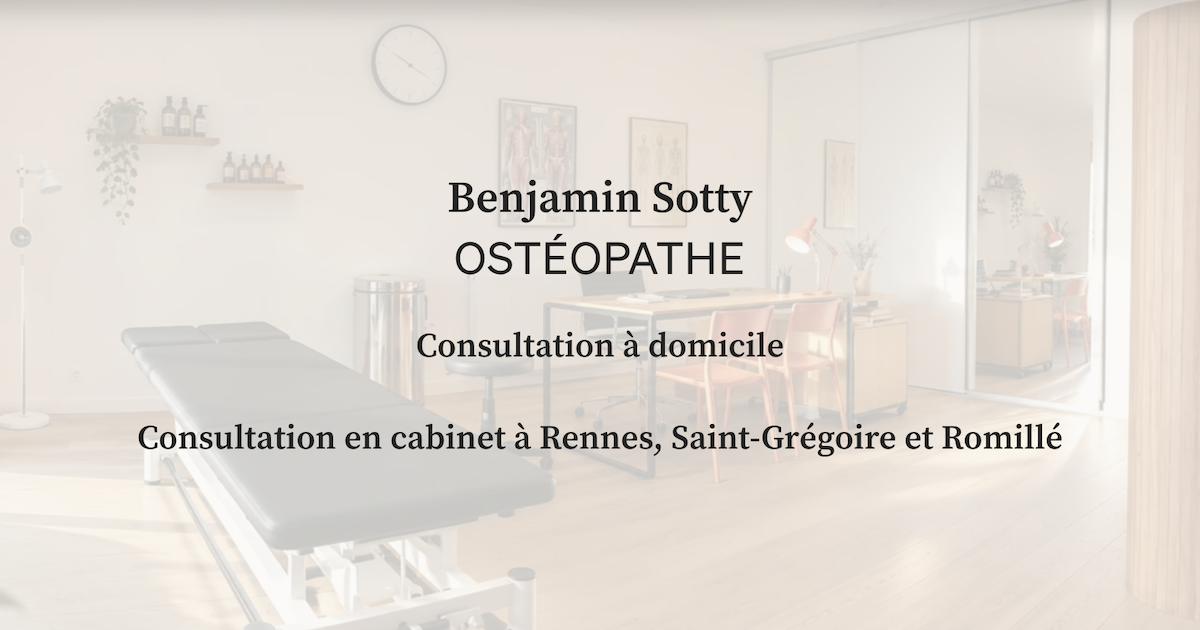
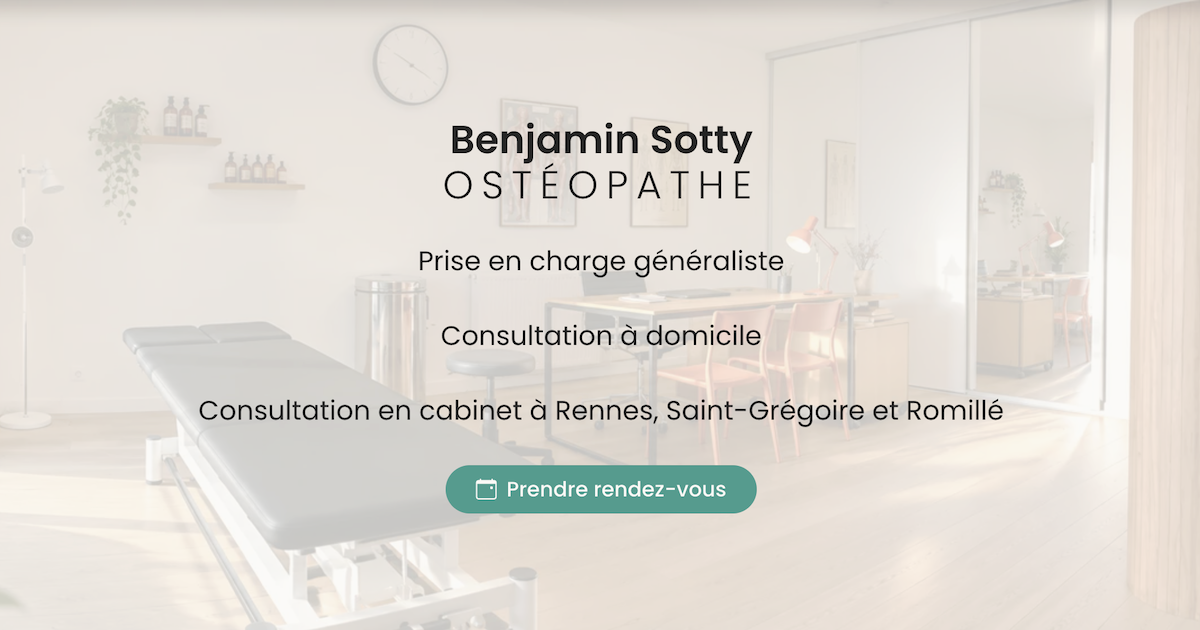
Change site color

Changed region(s): [[0.1233, 0.6333, 0.8942, 0.8143], [0.3392, 0.181, 0.6475, 0.4524], [0.3392, 0.5127, 0.6475, 0.573]]

diff --git a/docs/_includes/footer.html b/docs/_includes/footer.html
@@ -1,32 +1,32 @@
-<footer class="bd-footer py-4 py-md-5 bg-body-secondary">
-  <div class="container-md py-sm-4 py-md-5 px-sm-4 text-primary">
+<footer class="bd-footer py-4 py-md-5 bg-primary">
+  <div class="container-md py-sm-4 py-md-5 px-sm-4 text-white">
     <div class="row align-items-center">
       <div class="col mb-3">
         {% include logo.html %}
         <ul class="list-unstyled small">
           <li class="mb-2">
-            <a class="d-flex flow-row align-items-center gap-2" href="mailto:{{ site.data.me.email }}">
-              <i class="bi bi-envelope-at-fill text-primary fs-4"></i>
+            <a class="link-white d-flex flow-row align-items-center gap-2" href="mailto:{{ site.data.me.email }}">
+              <i class="bi bi-envelope-at-fill text-white fs-4"></i>
               <span>{{ site.data.me.email }}</span>
             </a>
           </li>
           <li class="mb-2 d-flex flow-row align-items-center">
-            <a class="d-flex flow-row align-items-center gap-2" href="tel:+33651385458">
-              <i class="bi bi-phone-fill text-primary fs-4"></i>
+            <a class="link-white d-flex flow-row align-items-center gap-2" href="tel:+33651385458">
+              <i class="bi bi-phone-fill text-white fs-4"></i>
               <span>{{ site.data.me.phone }}</span>
             </a>
           </li>
           <li class="mb-2">
-            <div class= "d-flex flow-row align-items-center gap-3 text-primary">
-              <a href="{{ site.data.me.google }}" target="_blank">
+            <div class= "d-flex flow-row align-items-center gap-3 text-white">
+              <a class="link-white" href="{{ site.data.me.google }}" target="_blank">
                 <i class="bi bi-google fs-4"></i>
               </a>
-              <div class="vr text-primary opacity-100 align-self-center"></div>
-              <a href="{{ site.data.me.linkedin }}" target="_blank">
+              <div class="vr text-white opacity-100 align-self-center"></div>
+              <a class="link-white" href="{{ site.data.me.linkedin }}" target="_blank">
                 <i class="bi bi-linkedin fs-4"></i>
               </a>
-              <div class="vr text-primary opacity-100 align-self-center"></div>
-              <a href="{{ site.data.me.github }}" target="_blank">
+              <div class="vr text-white opacity-100 align-self-center"></div>
+              <a class="link-white" href="{{ site.data.me.github }}" target="_blank">
                 <i class="bi bi-github fs-4"></i>
               </a>
             </div>
@@ -34,7 +34,7 @@
         </ul>
       </div>
       <div class="col mb-3 text-end">
-        {% include booking-button.html class="btn-primary btn-responsive" %}
+        {% include booking-button.html class="btn-white btn-responsive" %}
       </div>
     </div>
   </div>

diff --git a/docs/_includes/head.html b/docs/_includes/head.html
@@ -5,6 +5,7 @@
 {% assign ogImgPath = '/assets/images/benjamin-sotty-activity-summary.png' | absolute_url %}
 {% assign relativeUrl = page.url | replace: 'index.html', '' %}
 {% assign url = [site.url,  relativeUrl] | join: ""  %}
+{% assign favicon = '/assets/images/icons/favicon.png' | absolute_url %}
 
 <head>
   <meta charset="UTF-8" />
@@ -13,7 +14,7 @@
   <title>{{ title }}</title>
   <meta name="description" content="{{ description }}" />
   <link rel="canonical" href="{{ url }}" />
-  <link rel="icon" type="png" href="{{ '/assets/images/icons/care-primary.png' | absolute_url }}" />
+  <link rel="icon" type="png" href="{{ favicon }}" />
 
   <meta property="og:type" content="website" />
   <meta property="og:title" content="{{ title }}" />

diff --git a/docs/assets/scss/utilities/colors.scss b/docs/assets/scss/utilities/colors.scss
@@ -75,3 +75,37 @@ $utilities: map-merge(
   ),
   $utilities
 );
+
+$primaries: (
+  "50": #F0F8F6,
+  "100": #D9EEEA,
+  "200": #B5DED7,
+  "300": #8CCBC1,
+  "400": #61B5A8,
+  "500": #3A9D8F,
+  "600": #31897D,
+  "700": #287268,
+  "800": #205B53,
+  "900": #17443E
+);
+
+$utilities: map-merge(
+  (
+    "bg-primaries": (
+      property: background-color,
+      class: bg-primary,
+      values: $primaries
+    ),
+    "text-primaries": (
+      property: color,
+      class: text-primary,
+      values: $primaries
+    ),
+    "border-primaries": (
+      property: border-color,
+      class: border-primary,
+      values: $primaries
+    )
+  ),
+  $utilities
+);

diff --git a/docs/_includes/home/about-me/section.html b/docs/_includes/home/about-me/section.html
@@ -7,9 +7,11 @@
         alt="{{ include.imgAlt }}"
       />
     {% else %}
-      <div class="round-section-picture d-flex align-items-center justify-content-center rounded-circle border border-3 shadow p-4 bg-body-secondary">
+      <div class="round-section-picture d-flex align-items-center border-solid border-3 border-primary-400 justify-content-center rounded-circle shadow p-4">
         {% if include.icon %}
           <i class="bi {{ include.icon }} text-primary fs-1"></i>
+        {% else if include.iconHtml %}
+            {{ include.iconHtml }}
         {% else %}
           <img
             class="d-inline-block"

diff --git a/docs/assets/scss/variables.scss b/docs/assets/scss/variables.scss
@@ -5,12 +5,19 @@ $font-size-base: 1.06rem;
 $headings-font-weight: 700;
 $h1-font-size: $font-size-base * 2.5;
 
-
 // Colors
-//$primary: #12304A;
-//$primary: #0a58ca; // $blue-600;
-//$primary:#084298; // $blue-700;
-$primary: #052c65; // $blue-800;
+$primary: #3A9D8F;
+$primary-50:  #F0F8F6;
+$primary-100: #D9EEEA;
+$primary-200: #B5DED7;
+$primary-300: #8CCBC1;
+$primary-400: #61B5A8;
+$primary-500: #3A9D8F;
+$primary-600: #31897D;
+$primary-700: #287268;
+$primary-800: #205B53;
+$primary-900: #17443E;
+
 $white: #FAF9F6;
 $dark: #242424;
 $text-light: #6b6b6b;

diff --git a/docs/assets/scss/button.scss b/docs/assets/scss/button.scss
@@ -1,4 +1,24 @@
-.btn-responsive {
-  // .btn-sm
-  @include button-size($btn-padding-y-sm, $btn-padding-x-sm, $btn-font-size-sm, $btn-border-radius-sm);
+.btn {
+  font-weight: 500;
+
+  &.btn-responsive {
+    // .btn-sm
+    @include button-size($btn-padding-y-sm, $btn-padding-x-sm, $btn-font-size-sm, $btn-border-radius-sm);
+  }
+
+  &.btn-primary {
+    color: $white;
+  }
+
+  &.btn-white {
+    background-color: $white;
+    color: $primary;
+
+    &:hover,
+    &:active,
+    &:focus {
+      background-color: $white;
+      color: $primary;
+    }
+  }
 }

diff --git a/docs/_includes/home/booking/card.html b/docs/_includes/home/booking/card.html
@@ -8,7 +8,7 @@
   <div class="card-body d-flex flex-column justify-content-between">
     <div>
       <h5 class="card-title">{{ include.place.name }}</h5>
-      <p class="card-subtitle mb-2 text-medium text-condensed">{{ include.place.context }}</p>
+      <p class="card-subtitle mb-2 text-medium text-condensed text-gray-600">{{ include.place.context }}</p>
     </div>
     <div class="flex-fill d-flex flex-column justify-content-between gap-2">
       <p class="card-text m-0">Adresse&nbsp;: {{ include.place.address }}</p>

diff --git a/docs/_includes/home/about-me/index.html b/docs/_includes/home/about-me/index.html
@@ -32,10 +32,13 @@
       {% include home/about-me/texts/skills.md %}
     {% endcapture %}
 
+    {% capture skillsIcon %}
+      {% include svg-icons/healthcare.svg class="text-primary" size="3.5rem" %}
+    {% endcapture %}
+
     {%
       include home/about-me/section.html
-      iconPath="/assets/images/icons/care-primary.png"
-      iconAlt="Soins ostéopathiques"
+      iconHtml=skillsIcon
       id=page.sections.skills.id
       text=skills
       text_type="expandable"

diff --git a/docs/assets/scss/button-sm.scss b/docs/assets/scss/button-sm.scss
@@ -1,4 +1,6 @@
-.btn-responsive {
-  // .btn normal size
-  @include button-size($btn-padding-y, $btn-padding-x, $btn-font-size, $btn-border-radius);
+.btn {
+  &.btn-responsive {
+    // .btn normal size
+    @include button-size($btn-padding-y, $btn-padding-x, $btn-font-size, $btn-border-radius);
+  }
 }

diff --git a/docs/assets/scss/expandable-text-list.scss b/docs/assets/scss/expandable-text-list.scss
@@ -13,7 +13,7 @@
       display: inline;
       opacity: 0;
       transition: opacity 400ms ease;
-      background-color: $blue-100;
+      background-color: $primary-100;
       font-family: $font-family-sans-serif;
       font-size: $font-size-sm;
       border-radius: var(--bs-border-radius-pill);

diff --git a/docs/assets/scss/_typography.scss b/docs/assets/scss/_typography.scss
@@ -164,3 +164,13 @@ h2 {
 p + h2 {
   @include rfs(1.5rem, margin-top);
 }
+
+a.link-white {
+  color: $white;
+
+  &:hover,
+  &:active,
+  &:focus {
+    color: $white;
+  }
+}

diff --git a/docs/assets/scss/home/_hero.scss b/docs/assets/scss/home/_hero.scss
@@ -20,8 +20,7 @@
     }
 
     p {
-      @include font-size(1.125rem);
-      font-weight: 600;
+      @include font-size(1.18rem);
     }
   }
 }
